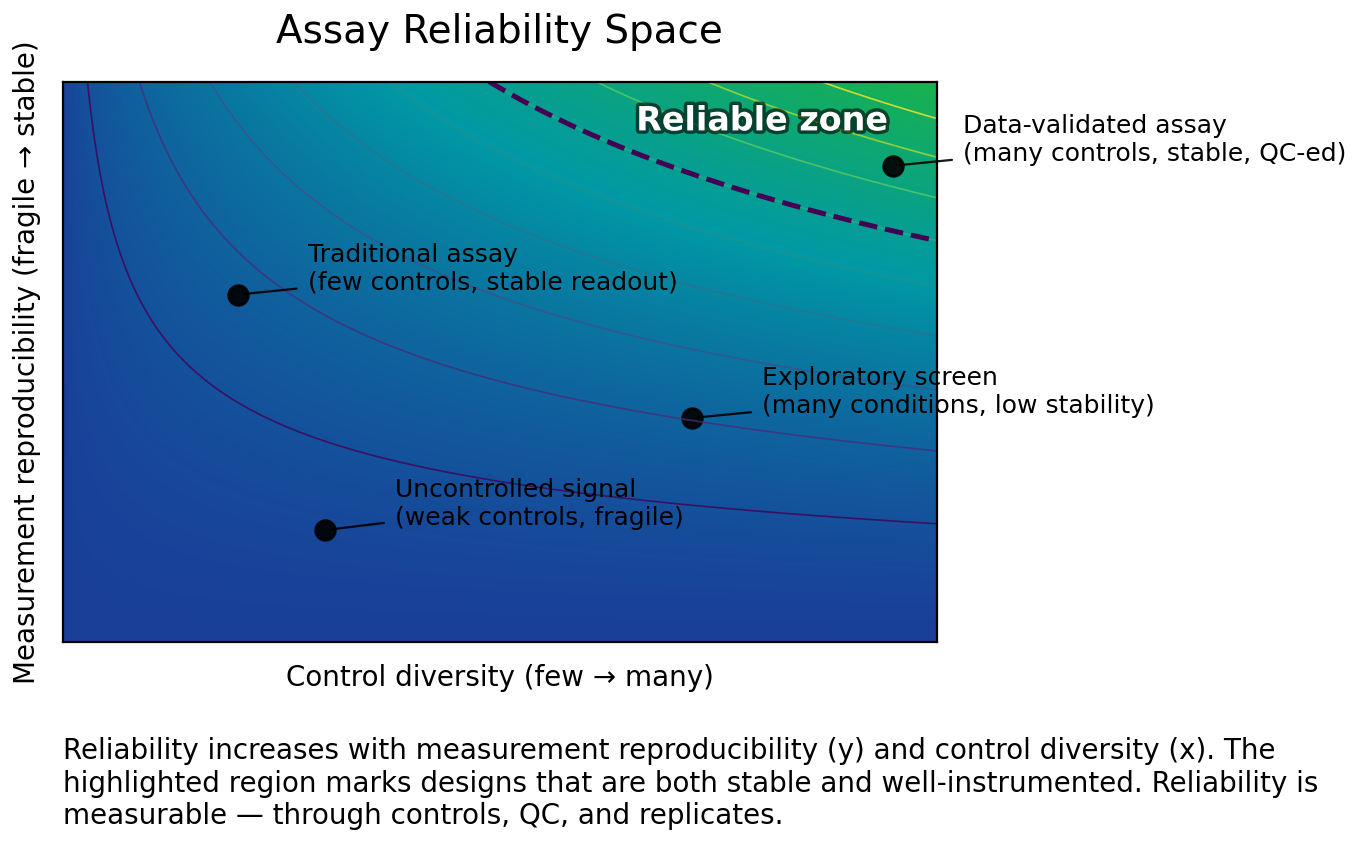
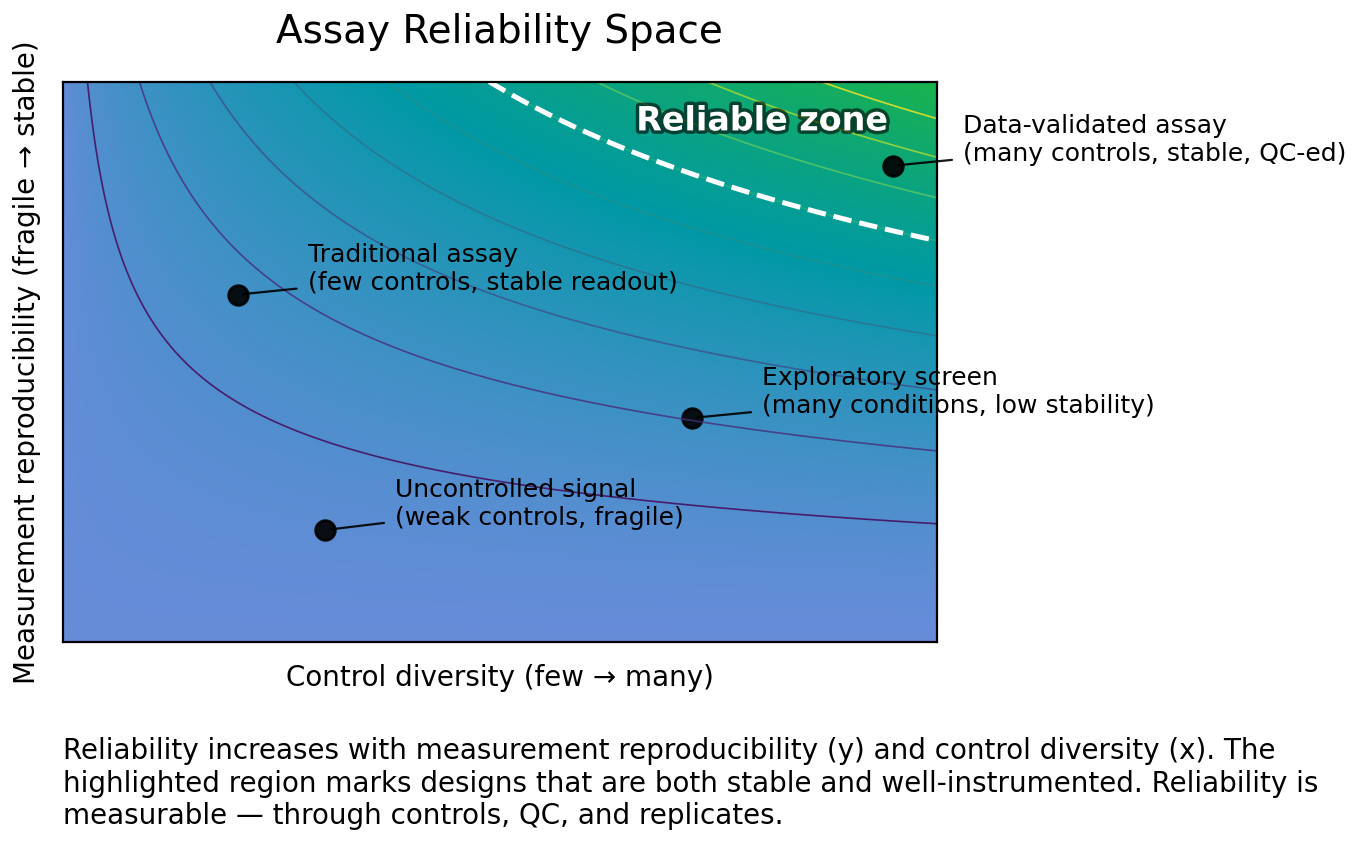
Edit draft 10

diff --git a/figure_notebooks/biounfold-010.py b/figure_notebooks/biounfold-010.py
@@ -25,12 +25,6 @@
 # ---
 
 # %%
-import matplotlib.patheffects as path_effects
-
-# %%
-from matplotlib import colors
-
-# %%
 # ------------------------------------------------------------
 # BioUnfold #10 — "Assay Reliability Space" (Density Map)
 # ------------------------------------------------------------
@@ -49,15 +43,17 @@ from matplotlib import colors
 #   reliability must be *measured* and outranks transparency.
 #
 # Design:
-#   - Single-plot matplotlib figure (no seaborn, no explicit colors).
+#   - Single-plot matplotlib figure.
 #   - No spines; minimal ticks.
 #   - Contours + dashed threshold for the "Reliable zone".
 #   - Example points annotate typical assay philosophies.
 # ------------------------------------------------------------
 
 import numpy as np
+from matplotlib import colors
 import matplotlib.pyplot as plt
 from matplotlib.patches import Ellipse
+import matplotlib.patheffects as path_effects
 
 def reliability_score(x, y):
     """
@@ -88,9 +84,7 @@ def make_biounfold_010_reliability_space(
         "Reliability is measurable — through controls, QC, and replicates."
     ),
     reliable_threshold=0.60,
-    ellipse_center=(0.80, 0.90),
-    ellipse_width=0.32,
-    ellipse_height=0.28,
+    reliable_center=(0.80, 0.90),
     add_examples=True,
 ):
     """
@@ -102,7 +96,7 @@ def make_biounfold_010_reliability_space(
         title: Plot title.
         caption: Explanatory caption under the axis.
         reliable_threshold: Contour level for reliable-zone threshold (0..1).
-        ellipse_center, ellipse_width, ellipse_height: Visual emphasis for the 'Reliable zone'.
+        reliable_center: 'Reliable zone' position.
         add_examples: If True, annotate example assay philosophies.
         save_png_path, save_svg_path: File paths; if provided, will save outputs.
 
@@ -124,9 +118,9 @@ def make_biounfold_010_reliability_space(
     BuGn_custom = colors.LinearSegmentedColormap.from_list(
         "BuGn_custom",
         [
-            (0.00, (0.10, 0.25, 0.60)),  # deep blue
-            (0.50, (0.00, 0.60, 0.65)),  # teal (transition zone)
-            (1.00, (0.10, 0.70, 0.30)),  # stable green (reliable)
+            (0.00, (0.40, 0.55, 0.85)),  # light blue
+            (0.50, (0.00, 0.60, 0.65)),  # teal
+            (1.00, (0.10, 0.70, 0.30)),  # green
         ],
         N=256,
     )
@@ -139,15 +133,11 @@ def make_biounfold_010_reliability_space(
 
     # Contours (structure) + threshold (reliable zone)
     cs = ax.contour(X, Y, Z, levels=np.linspace(0.1, 0.9, 9), linewidths=0.6, alpha=0.8)
-    # ax.clabel(cs, inline=True, fontsize=8, fmt="%.2f")
-    ax.contour(X, Y, Z, levels=[reliable_threshold], linewidths=1.8, linestyles="--")
+    ax.contour(X, Y, Z, levels=[reliable_threshold], linewidths=1.8, linestyles="--", colors=["white"])
 
     # Highlight "Reliable zone" with a soft ellipse
-    #ellipse = Ellipse(ellipse_center, ellipse_width, ellipse_height, angle=0, fill=True, alpha=0.12)
-    #ax.add_patch(ellipse)
-    #ax.text(ellipse_center[0], ellipse_center[1] + 0.03, "Reliable zone", ha="center", va="center", fontsize=11)
     ax.text(
-        ellipse_center[0], ellipse_center[1] + 0.03, "Reliable zone",
+        reliable_center[0], reliable_center[1] + 0.03, "Reliable zone",
         ha="center", va="center", fontsize=12, weight="bold", color="white",
         path_effects=[
             path_effects.withStroke(linewidth=2.5, foreground="black", alpha=0.6)
@@ -180,10 +170,6 @@ def make_biounfold_010_reliability_space(
     ax.set_title(title, pad=14, fontsize=14)
 
     # Clean frame
-    #for sp in ax.spines.values():
-    #    sp.set_visible(False)
-    #ax.set_xticks([0.0, 0.25, 0.5, 0.75, 1.0])
-    #ax.set_yticks([0.0, 0.25, 0.5, 0.75, 1.0])
     ax.set_xticks([]); ax.set_yticks([])
     ax.grid(False)
 
@@ -194,7 +180,6 @@ def make_biounfold_010_reliability_space(
 
 
     return fig, ax
-
 
 fig, ax = make_biounfold_010_reliability_space(
     reliable_threshold=0.60,

diff --git a/docs/_drafts/2025-11-17-assay-optimization-and-the-upper-bound-of-discovery.md b/docs/_drafts/2025-11-17-assay-optimization-and-the-upper-bound-of-discovery.md
@@ -17,8 +17,7 @@ It is where *“how do we test this?”* quietly decides whether an idea will ev
 
 #### From Hypothesis to Measurement
 
-Most assays begin the same way: 
-> “If we reduce this transcription factor, tumor proliferation should decrease.”
+Most assays begin the same way: *If we reduce this transcription factor, tumor proliferation should decrease.*
 
 That logic already defines the **signal type** — an imaging assay measuring
 nuclear intensity, perhaps normalized to cell count. This framing works; almost
@@ -55,8 +54,7 @@ craftsmanship** and **signal engineering**.
 
 #### The Trade-offs
 
-Every optimization effort faces the same question: 
-> How many channels or stains should we include?
+Every optimization effort faces the same question: *How many channels or stains should we include?*
 
 More channels increase what the model can learn, but they add cost and
 complexity. Sometimes an extra stain improves performance by only a few
